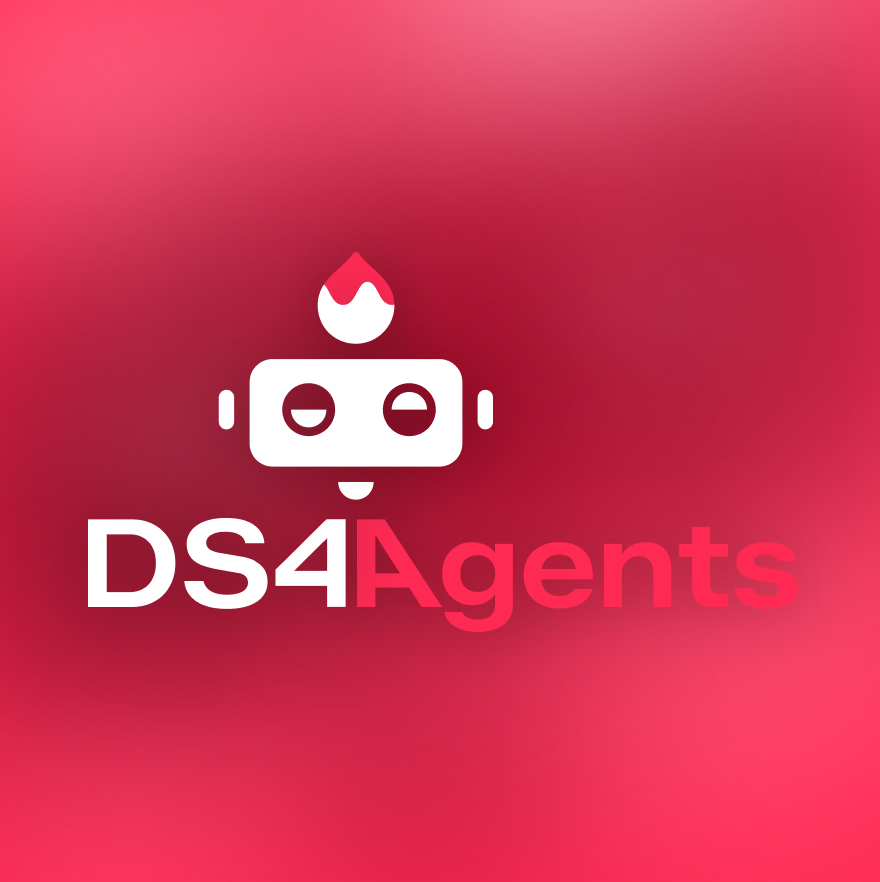
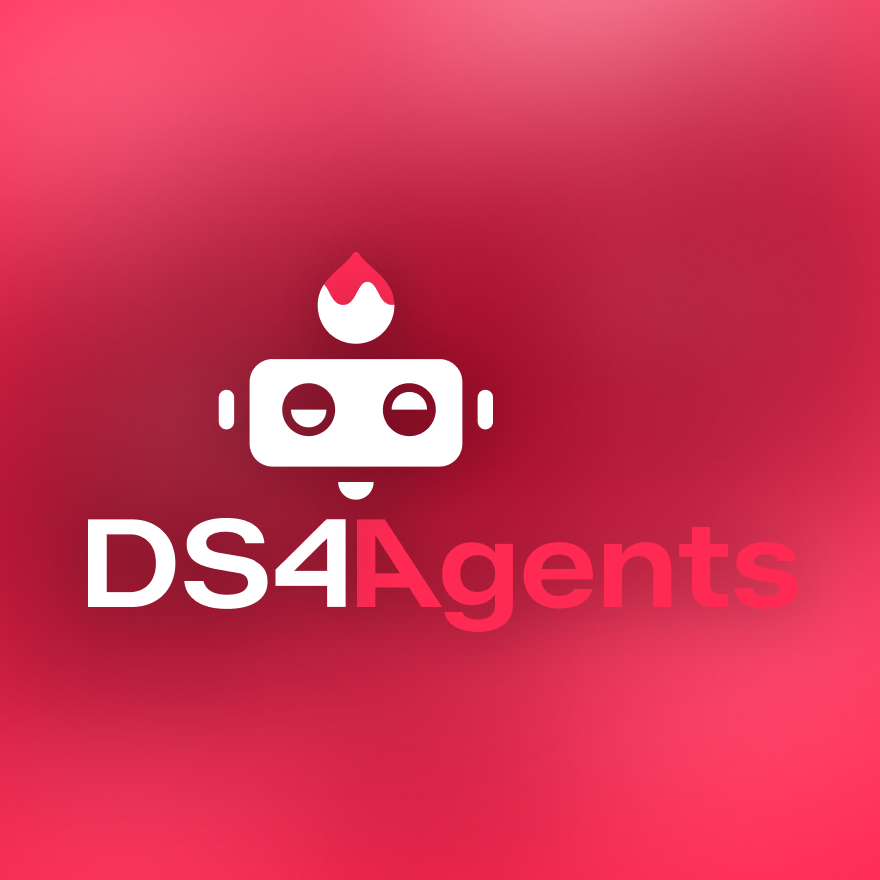
marca: G19 home.png a 880 × 880 y alturas confirmadas
El marco home (298:6888) pasa a 440 × 440 en Figma y se exporta de nuevo.
Oscar confirma las alturas de cabecera (44 px) y pie (56 px).

diff --git a/src/app/page.tsx b/src/app/page.tsx
@@ -35,7 +35,7 @@ export default async function Home() {
         </Button>
       </div>
       {/* D43 y V48 en designtokens101, con una diferencia (G16, G19): la ilustración de ds4agents tiene
-          fondo propio y sirve en los dos temas, así que hay un solo PNG (880 × 882, a 2×; object-cover lo recorta a cuadrado).
+          fondo propio y sirve en los dos temas, así que hay un solo PNG (880 × 880, a 2×).
           Decorativa: el título ya dice qué es la página. Fuera de "solo tokens" como los logotipos
           (D22); el radio sí es un token. */}
       <div>

diff --git a/docs/decisiones.md b/docs/decisiones.md
@@ -34,4 +34,4 @@ El protocolo entre sesiones (contenido, diseño, desarrollo) es el de designtoke
 | G16 | Marca definitiva exportada de Figma (TokensDS, página Templates), sin editar los SVG salvo la nota de procedencia. Cabecera: Logo 228:6874 y Logo-dark 230:6789 (`logo-colored(-dark).svg`, 76 × 44). Pie: LogoMonocrome 229:6939 y LogoMonocrome-dark 230:6795 (`logo-gray(-dark).svg`, 59 × 34). Symbol 228:6906: `symbol.svg` y `apple-icon.png` (180 px). emoticon 228:6907: `icon.svg` y `favicon.ico` (16 y 32 px). Opengraph 225:6859: `share.png` (1200 × 630). Illustration 228:6911: `home.png` (880 × 880), una sola imagen para Light y Dark, con el radio en CSS. El nombre se escribe "DS4Agents", como en Figma. | Sustituida por G19 |
 | G17 | Despliegue en Vercel con el dominio `ds4agents.com`. El dominio canónico es sin www (`SITE_URL`); `www.ds4agents.com` redirige a `ds4agents.com` con 308. | Cerrada (2026-10-21) |
 | G18 | CodePreview (V60 de designtokens101) se copia a ds4agents. Un bloque markdown lleva `preview` cuando es un documento completo y verlo renderizado aporta algo: frontmatter, encabezados, listas o tablas. Los fragmentos y los archivos que se renderizarían como texto plano, no. | Cerrada (2026-10-21) |
-| G19 | Marca nueva exportada de Figma (TokensDS, página Templates, sección "DS4Agents · Marca (2026-10-21)" 298:6831), cada marco con su ajuste de exportación y sin editar los SVG salvo la nota de procedencia. Logotipo horizontal (202 × 48): `logo-horizontal-colored(-dark).svg` (298:6840, 298:6845) en la cabecera, a 185 × 44; `logo-horizontal-gray(-dark).svg` (298:6850, 298:6855), guardados sin uso. Logotipo vertical (144 × 78 en el SVG; 77,07 en Figma): `logo-vertical-gray(-dark).svg` (298:6874, 298:6879) en el pie, a 103 × 56, para que "DS4Agents" mida unos 13 px de alto; `logo-vertical-colored(-dark).svg` (298:6864, 298:6869), guardados sin uso. `home.png` (298:6888, 880 × 882 a 2×; `object-cover` lo recorta a cuadrado) y `share.png` (298:6898, 1200 × 630), una sola imagen para Light y Dark. Se borran `logo-colored(-dark).svg`, `logo-gray(-dark).svg` y `symbol.svg`. `icon.svg`, `favicon.ico` y `apple-icon.png` siguen siendo los de G16. | Cerrada (2026-10-21) |
+| G19 | Marca nueva exportada de Figma (TokensDS, página Templates, sección "DS4Agents · Marca (2026-10-21)" 298:6831), cada marco con su ajuste de exportación y sin editar los SVG salvo la nota de procedencia. Logotipo horizontal (202 × 48): `logo-horizontal-colored(-dark).svg` (298:6840, 298:6845) en la cabecera, a 185 × 44; `logo-horizontal-gray(-dark).svg` (298:6850, 298:6855), guardados sin uso. Logotipo vertical (144 × 78 en el SVG; 77,07 en Figma): `logo-vertical-gray(-dark).svg` (298:6874, 298:6879) en el pie, a 103 × 56, para que "DS4Agents" mida unos 13 px de alto; `logo-vertical-colored(-dark).svg` (298:6864, 298:6869), guardados sin uso. `home.png` (298:6888, 880 × 880 a 2×; el marco pasa de 440 × 441 a 440 × 440 en Figma) y `share.png` (298:6898, 1200 × 630), una sola imagen para Light y Dark. Se borran `logo-colored(-dark).svg`, `logo-gray(-dark).svg` y `symbol.svg`. `icon.svg`, `favicon.ico` y `apple-icon.png` siguen siendo los de G16. | Cerrada (2026-10-21) |

diff --git a/docs/estado.md b/docs/estado.md
@@ -2,7 +2,7 @@
 
 Qué sigue abierto. **Corto a propósito**: se carga al empezar cada sesión. El detalle de lo hecho va en `docs/historial.md`.
 
-Última actualización: 2026-10-21, sesión de desarrollo. Marca nueva desde Figma (G19). Antes, el mismo día: CodePreview (G18) y web publicada en Vercel con `ds4agents.com` (G17).
+Última actualización: 2026-10-21, sesión de desarrollo. Marca nueva desde Figma (G19), con las alturas confirmadas por Oscar. Antes, el mismo día: CodePreview (G18) y web publicada en Vercel con `ds4agents.com` (G17).
 
 ## Plan general
 
@@ -19,9 +19,7 @@ Qué sigue abierto. **Corto a propósito**: se carga al empezar cada sesión. El
 - **CodePreview (G18):** los tres puntos abiertos de V60 (contraste de la pestaña en `active` en Dark, `hover` en el carril, código en línea de la vista previa) se deciden en designtokens101 y se copian aquí (G02).
 
 - **`Takeaways` (G15):** si designtokens101 cambia el componente, copiar el cambio aquí sin perder la excepción.
-- **Alturas de los logotipos (G19):** propuestas por desarrollo, cabecera a 44 px (185 × 44) y pie a 56 px (103 × 56). Oscar las confirma en el navegador.
-- **`home.png` (G19):** sale a 880 × 882 porque el marco `home` (298:6888) mide 440 × 441. `object-cover` lo recorta; para 880 × 880 exactos, el marco a 440 × 440 en Figma y exportar de nuevo.
-- **Iconos (G16):** `icon.svg`, `favicon.ico` y `apple-icon.png` siguen siendo la marca anterior. Decidir si se sacan de la marca nueva.
+- **Iconos (G16):** `icon.svg`, `favicon.ico` y `apple-icon.png` siguen siendo la marca anterior, y el emoticon del que salían (228:6907) ya no existe en Figma. Falta un marco de icono en la sección de la marca (298:6831).
 - **Favicon en pestañas oscuras (G16):** el verde del emoticon tiene poco contraste sobre una pestaña oscura del navegador.
 - **Revisión de Oscar:** leer las 53 páginas en el navegador. Criterio propio marcado como recomendación: rúbrica, scorecard, extensiones por nivel, categorías funcionales, estructura de páginas, plantillas y scripts.
 - **Sin verificar (no se afirma):** si las guidelines de Figma llegan por el servidor MCP; si la descripción de un componente llega en el contexto del MCP; si Figma exporta `$deprecated`; qué pasa con las instancias de un componente oculto al publicar.

diff --git a/docs/historial.md b/docs/historial.md
@@ -8,6 +8,7 @@ Detalle de lo hecho en cada frente, con fecha. Lo más reciente, arriba.
 - Exportados con `download_assets` sin forzar formato ni escala (se usa el ajuste de exportación de cada marco) y descargados con `curl`: SVG sin fondo del lienzo, solo los dos rellenos de cada variante; los verticales salen a 144 × 78. `home.png` sale a 880 × 882 porque el marco mide 440 × 441. Única edición: la nota de procedencia en la segunda línea de cada SVG (comprobado con `diff`).
 - `public/brand/`: los ocho `logo-{horizontal,vertical}-{colored,gray}(-dark).svg`, `home.png` y `share.png`. Borrados `logo-colored(-dark).svg`, `logo-gray(-dark).svg` y `symbol.svg` (este ya no tenía uso).
 - `Logo.tsx`: cabecera con el horizontal en color a 185 × 44 (la altura de designtokens101; "DS4Agents" mide unos 16 px de alto); pie con el vertical en gris a 103 × 56 (unos 13 px; a 34 px serían 8). Texto alternativo de `share.png` actualizado en `src/lib/metadata.ts`; comentarios de la portada.
+- Oscar confirma las alturas. El marco `home` (298:6888) pasa a 440 × 440 en Figma con `resizeWithoutConstraints` (los hijos no se mueven; se recorta 1 px abajo) y `home.png` se exporta de nuevo a 880 × 880.
 - Comprobado: `npm test` (14 pruebas), `check:tokens`, `build`, `check:content`, sin errores; capturas con Chrome sin interfaz a 1280 px y en un iframe de 320 px, en Light y Dark: el logotipo y el botón de menú caben sin scroll horizontal.
 
 ## 2026-10-21 · Desarrollo · CodePreview (G18)
